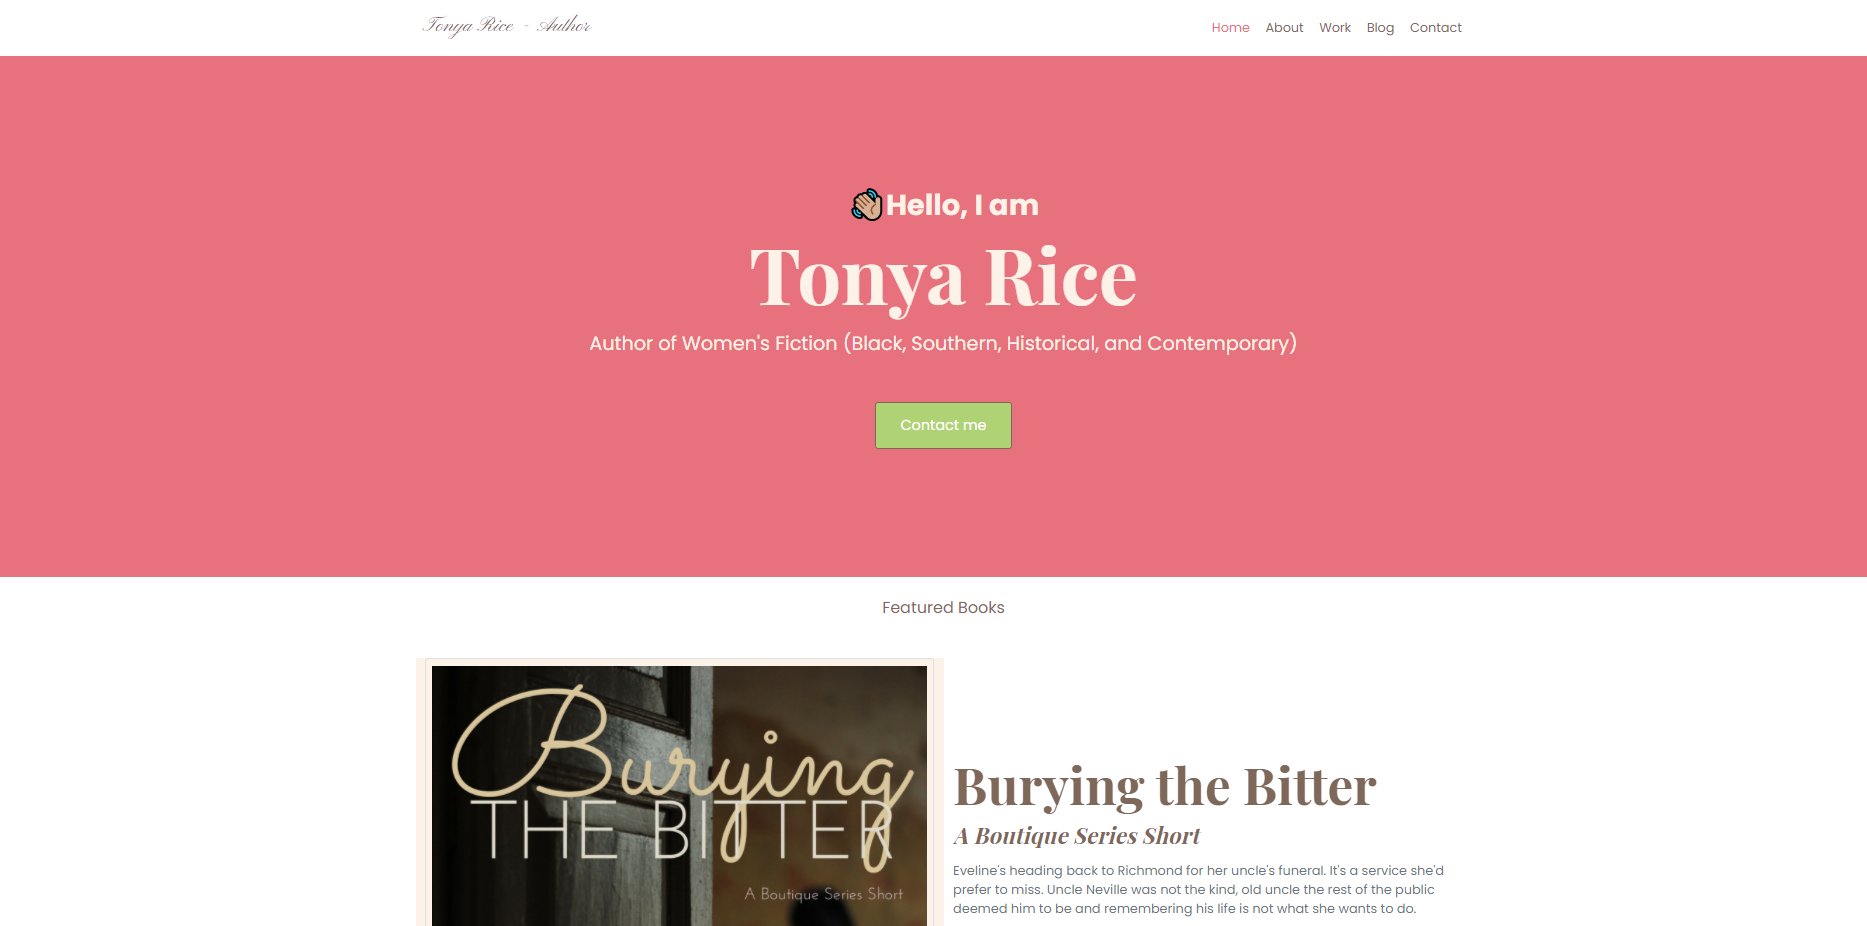
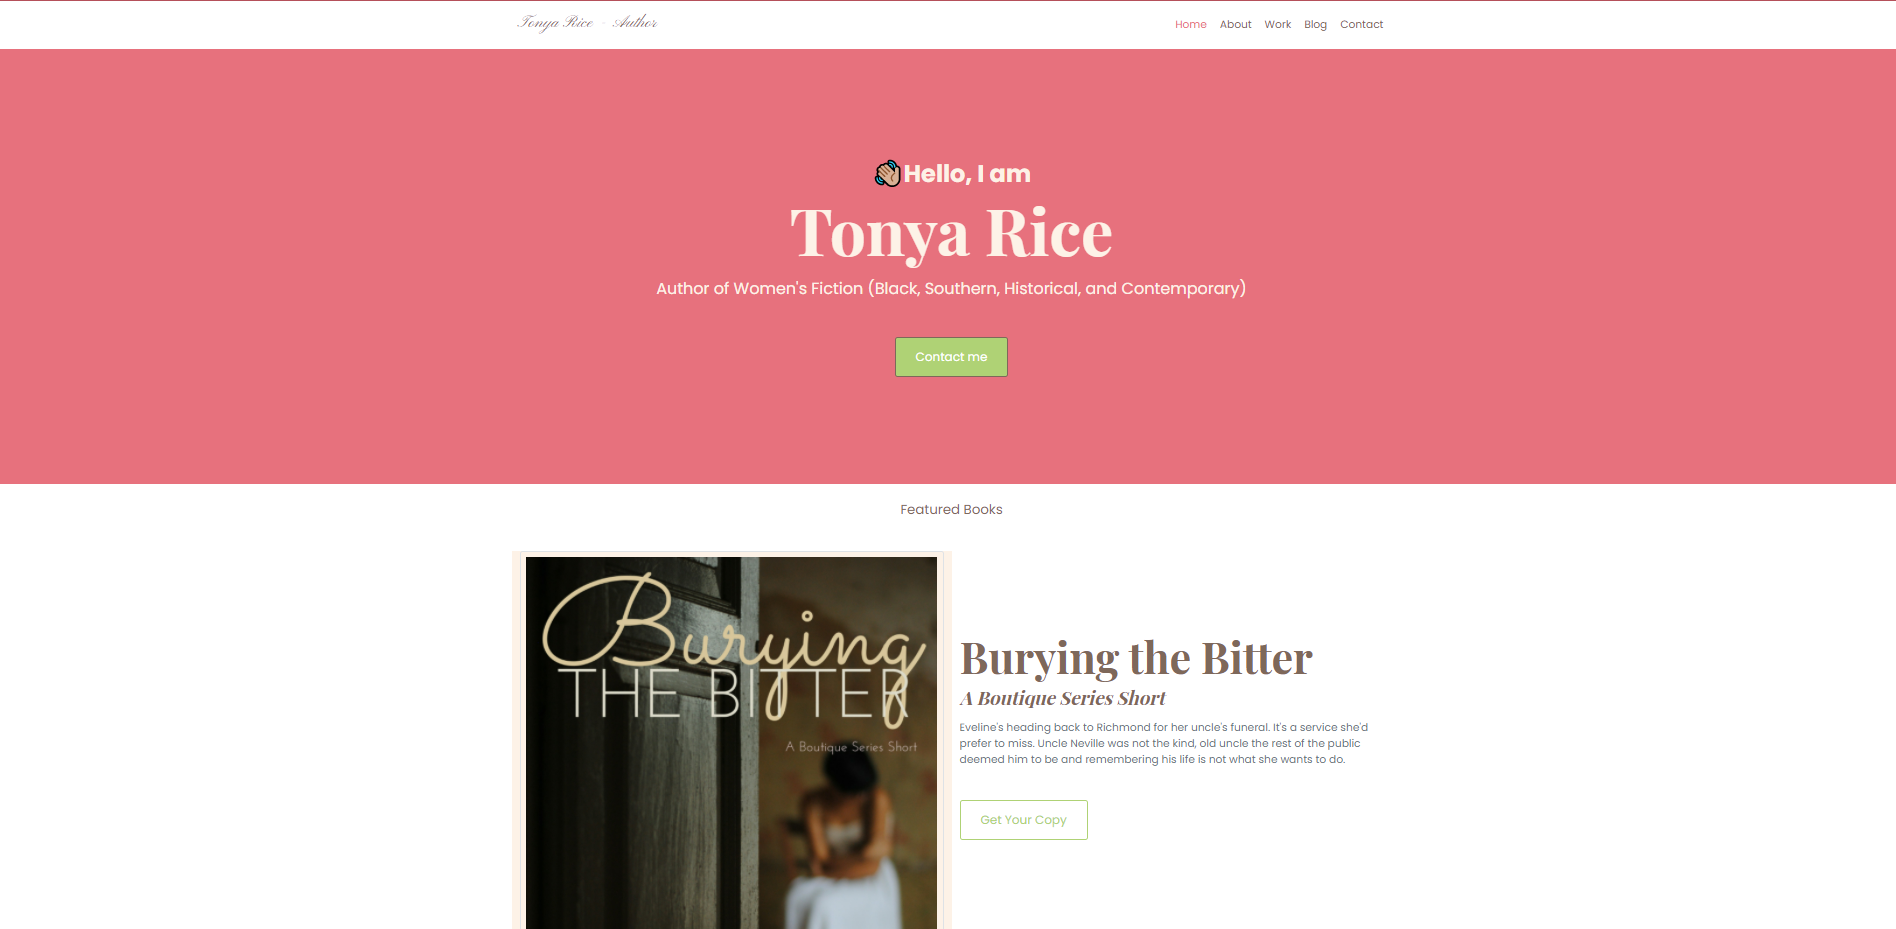
Updated background image, navigation bar links, and footer on homepage

Changed region(s): [[0.0, 0.514, 1.0, 1.0], [0.3107, 0.1512, 0.6834, 0.4838], [0.0, 0.0, 1.0, 0.0605]]

diff --git a/src/styles.css b/src/styles.css
@@ -2,7 +2,7 @@
 /* best image size at least or so: 6016px x 4016px */
 
 body {
-    background-image: url("/images/coding.jpg");
+    background-image: url("/images-3/15-wide-4.jpg");
     background-position: center center; 
     background-repeat: no-repeat;
     background-attachment: fixed;
@@ -130,25 +130,25 @@ hr {
     left: 0;
     bottom: 0;
     width: 100%;
+    text-align: right;
     /* padding-left: 75px; */
     /* margin-left: 1550px; */
-    
-   
+
     /* opacity: 0.1; */
     /* color: black; */
+}
+
+.footer-home a {
+    text-decoration: none;
 }
 
 .footer-home-text {
     /* color: white; */
     /* color: rgb(255, 251, 2); */
-    color:rgb(170, 252, 7);text-align: right;
+    color:rgb(170, 252, 7);
     padding: 0px 4px 10px 15px;
-    /* padding-left: 15px;
-    padding-bottom: 10px;
-    padding-right: 2px; */
-   background-color: rgba(23, 41, 29, 0.4);
+   background-color: rgba(23, 41, 29, 0.5);
    display: inline;
- 
 }
 
 .footer-home .photo-credit {
@@ -219,12 +219,24 @@ footer .social-links a  {
 
 @media (max-width: 960px) {
     .dev-info {
-        line-height: 1;
-        margin-top: 175px;
+        margin-top: 235px;
     }
 
-    .footer-home {
+    .dev-info h1 {
+        line-height: 1;
+        font-size: 95px;
+        /* margin-top: 75px; */
+    }
+
+
+
+    /* .footer-home {
         background-color: rgba(155, 155, 155, 0.6)
+ 
+    } */
+
+    .footer-home-text {
+        font-size: 13px;
     }
 
     .black-text {

diff --git a/index.html b/index.html
@@ -47,7 +47,7 @@
                     <a class="nav-link" href="/contact.html">Contact</a>
                   </li>
                   <li>
-                  <a class="nav-link" href="https://www.twitter.com/coolcodechick"><i class="fa fa-github" aria-hidden="true"></i>
+                  <a class="nav-link" href="https://github.com/tonyarice" target="_blank"><i class="fa fa-github" aria-hidden="true"></i>
                   </a>
                 </li>
               </ul>
@@ -73,12 +73,12 @@
           >🐈
           Coded
           by <a
-          href="https://github.com/tonyarice/weather-app-plus"
+          href="https://github.com/tonyarice/Portfolio-Project-Final"
           target="_blank"
           class="hyperlink-line"
           >Tonya Rice</a
           > and hosted on <a
-          href="https://github.com/tonyarice/weather-app-plus"
+          href="https://app.netlify.com/teams/tonyarice/sites"
           target="_blank"
           class="hyperlink-line"
           >Netlify</a

diff --git a/contact.html b/contact.html
@@ -38,13 +38,13 @@
                   <a class="nav-link" href="/work.html">Work</a>
                 </li>
                 <li class="nav-item">
-                    <a class="nav-link" href="/books.html">Books</a>
+                    <a class="nav-link" href="https://practical-leakey-597752.netlify.app/" target="_blank">Books</a>
                   </li>
                 <li class="nav-item">
                     <a class="nav-link active" aria-current="page" href="/contact.html">Contact</a>
                   </li>
                   <li>
-                    <a class="nav-link" href="https://www.twitter.com/coolcodechick"><i class="fa fa-github" aria-hidden="true"></i>
+                    <a class="nav-link" href="https://github.com/tonyarice"><i class="fa fa-github" target="_blank" aria-hidden="true"></i>
                     </a>
                   </li>
               </ul>

diff --git a/work.html b/work.html
@@ -38,13 +38,13 @@
                   <a class="nav-link active" aria-current="page" href="/work.html">Work</a>
                 </li>
                 <li class="nav-item">
-                    <a class="nav-link" href="/books.html">Books</a>
+                    <a class="nav-link" href="https://practical-leakey-597752.netlify.app/" target="_blank">Books</a>
                   </li>
                 <li class="nav-item">
                     <a class="nav-link" href="/contact.html">Contact</a>
                   </li>
                   <li>
-                    <a class="nav-link" href="https://www.twitter.com/coolcodechick"><i class="fa fa-github" aria-hidden="true"></i>
+                    <a class="nav-link" href="https://github.com/tonyarice"><i class="fa fa-github" target="_blank" aria-hidden="true"></i>
                     </a>
                   </li>
               </ul>

diff --git a/about.html b/about.html
@@ -38,13 +38,13 @@
                   <a class="nav-link" href="/work.html">Work</a>
                 </li>
                 <li class="nav-item">
-                    <a class="nav-link" href="/books.html">Books</a>
+                    <a class="nav-link" href="https://practical-leakey-597752.netlify.app/" target="_blank">Books</a>
                   </li>
                 <li class="nav-item">
                     <a class="nav-link" href="/contact.html">Contact</a>
                   </li>
                   <li>
-                    <a class="nav-link" href="https://www.twitter.com/coolcodechick"><i class="fa fa-github" aria-hidden="true"></i>
+                    <a class="nav-link" href="https://github.com/tonyarice"><i class="fa fa-github" target="_blank" aria-hidden="true"></i>
                     </a>
                   </li>
               </ul>

diff --git a/books.html b/books.html
@@ -43,6 +43,10 @@
                 <li class="nav-item">
                     <a class="nav-link" href="/contact.html">Contact</a>
                   </li>
+                  <li>
+                    <a class="nav-link" href="https://github.com/tonyarice"><i class="fa fa-github" aria-hidden="true"></i>
+                    </a>
+                  </li>
               </ul>
             </div>
           </div>
